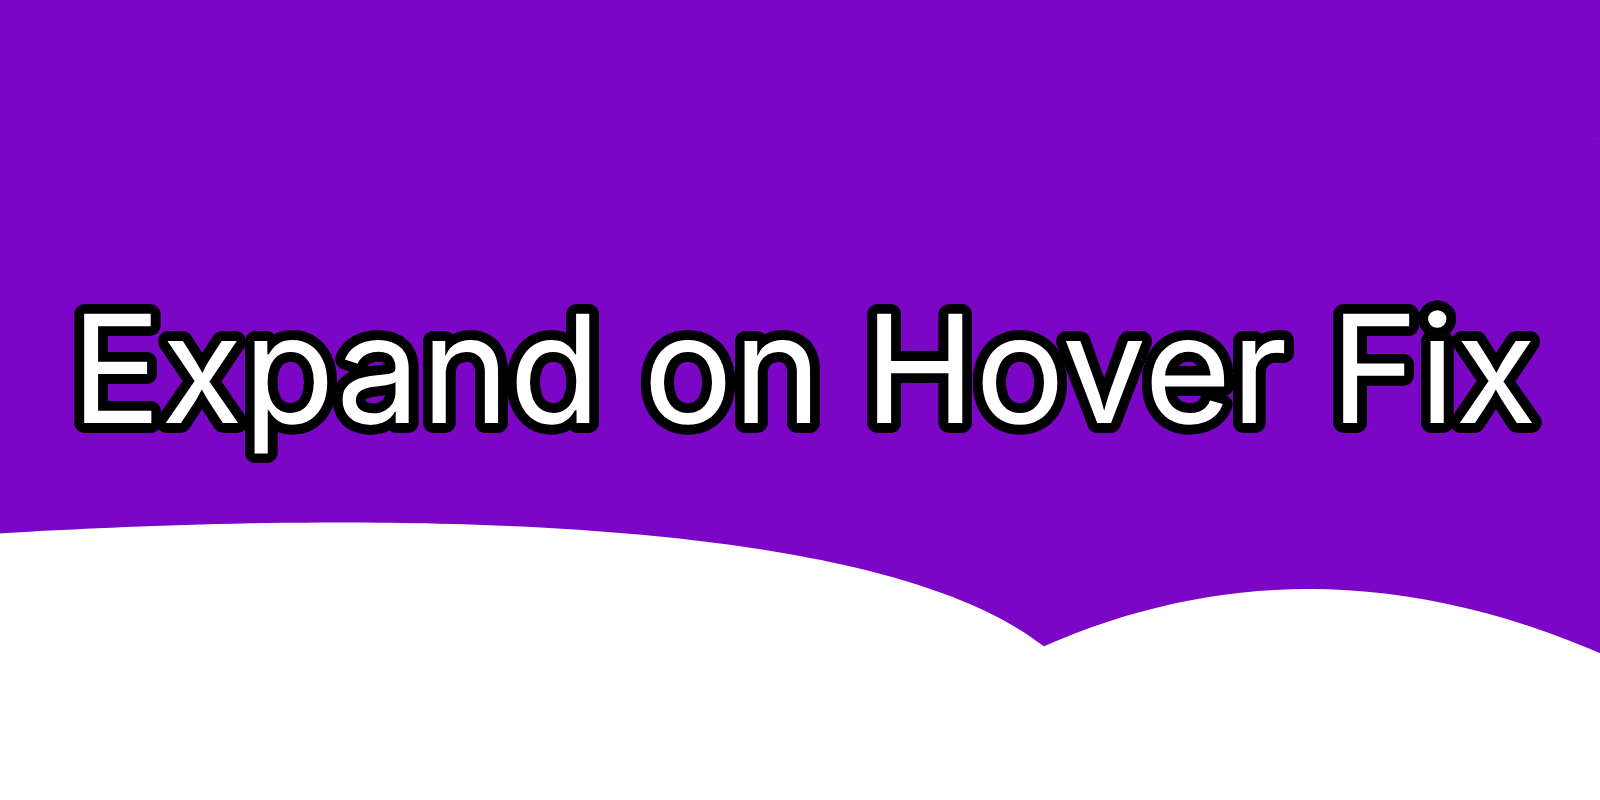
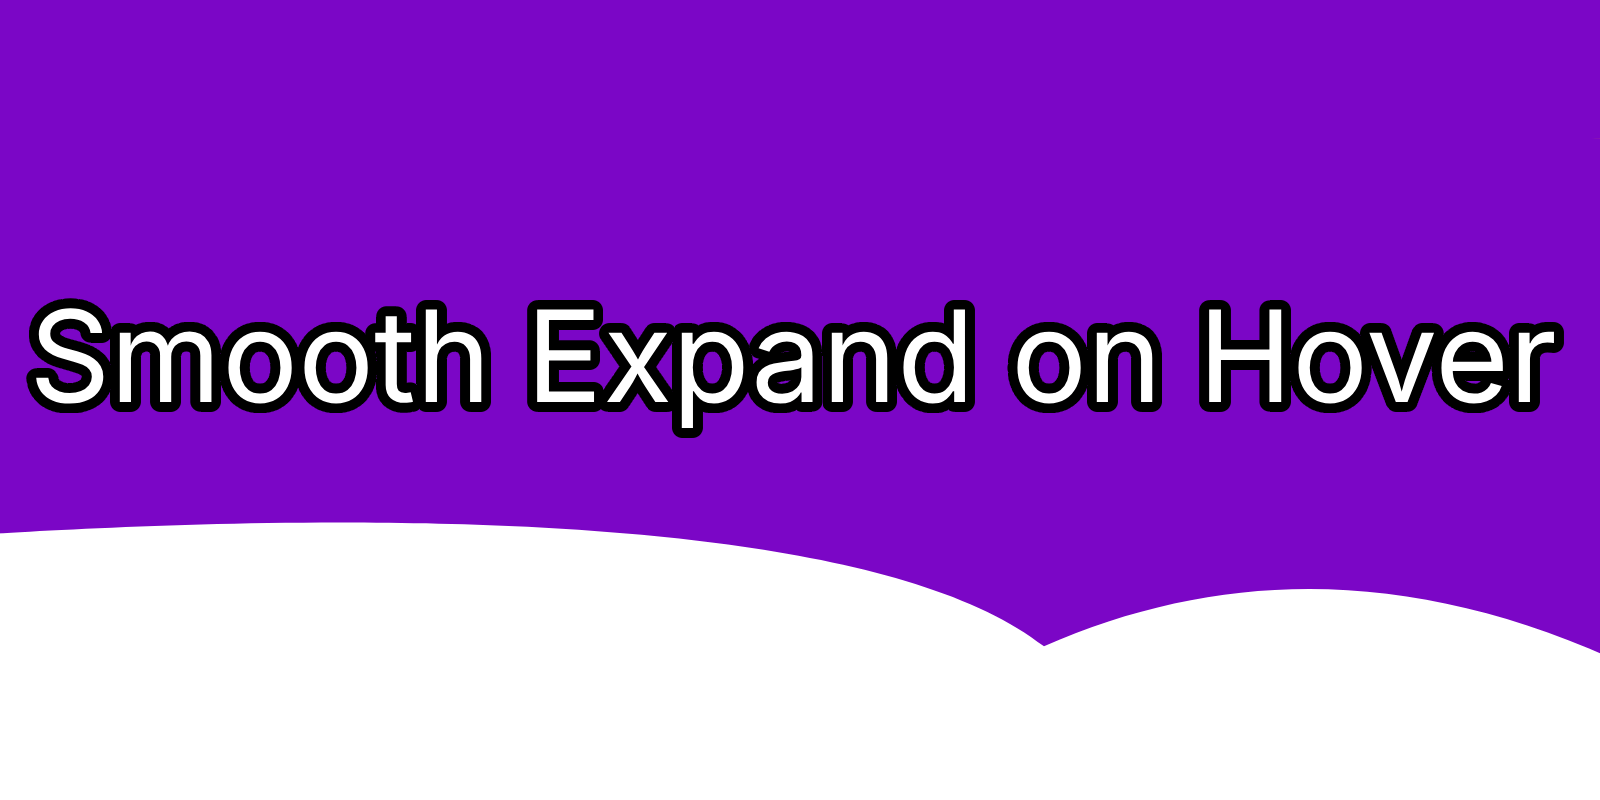
Changed the image and added it to the readme

Changed region(s): [[0.0, 0.375, 1.0, 0.5938]]

diff --git a/README.md b/README.md
@@ -1,2 +1,4 @@
 # Firefox Smooth Vertical Tabs Animation
-Small mod that fixes the tab bar so it expands smoothly on hover
+![](./image.png)
+
+Small mod that fixes the tab bar so it expands smoothly on hover.
